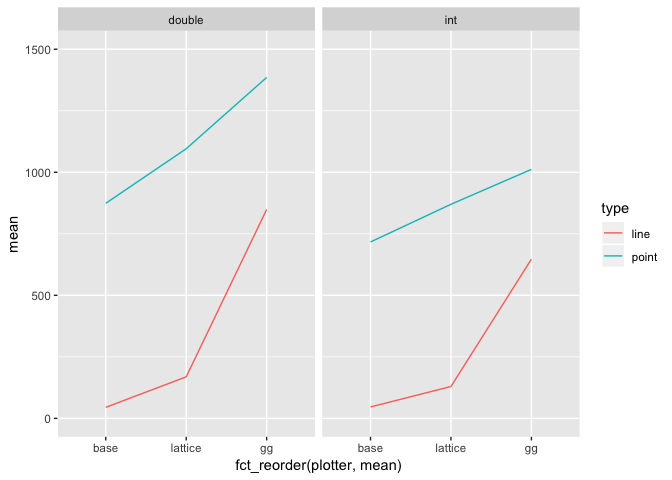
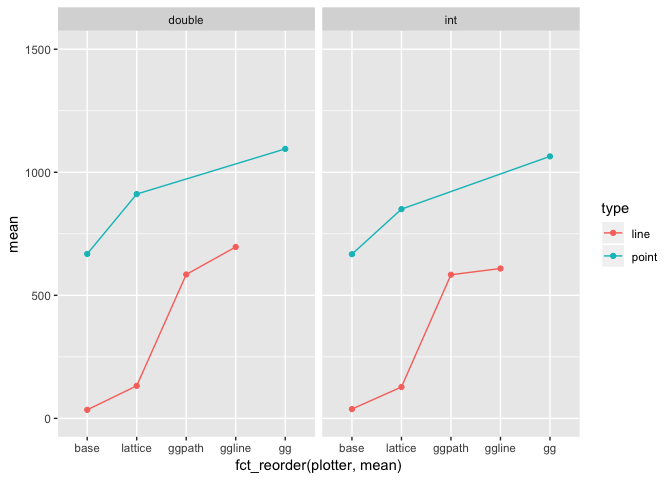
updated line profile report

diff --git a/line-profile-report.md b/line-profile-report.md
@@ -9,6 +9,8 @@ library(forcats)
 library(dplyr)
 ```
 
+    ## Warning: package 'dplyr' was built under R version 3.5.1
+
     ## 
     ## Attaching package: 'dplyr'
 
@@ -36,9 +38,15 @@ line_point_bencher <- function(data, times = 5) {
       print(p)
       dev.off()
     },
-    gg_line = {
+    ggpath_line = {
       png()
       p <- ggplot(data, aes(x = id, y = val)) + geom_path()
+      print(p)
+      dev.off()
+    },
+    ggline_line = {
+      png()
+      p <- ggplot(data, aes(x = id, y = val)) + geom_line()
       print(p)
       dev.off()
     },
@@ -68,8 +76,9 @@ line_point_bencher <- function(data, times = 5) {
 line_point_plotter <- function(data) {
   data %>%
     separate(expr, c("plotter", "type"), sep = "_") %>%
-    ggplot() +
-    geom_line(aes(fct_reorder(plotter, mean), mean, color = type, group = type))
+    ggplot(aes(fct_reorder(plotter, mean), mean, color = type, group = type)) +
+    geom_line() + 
+    geom_point()
 }
 ```
 
